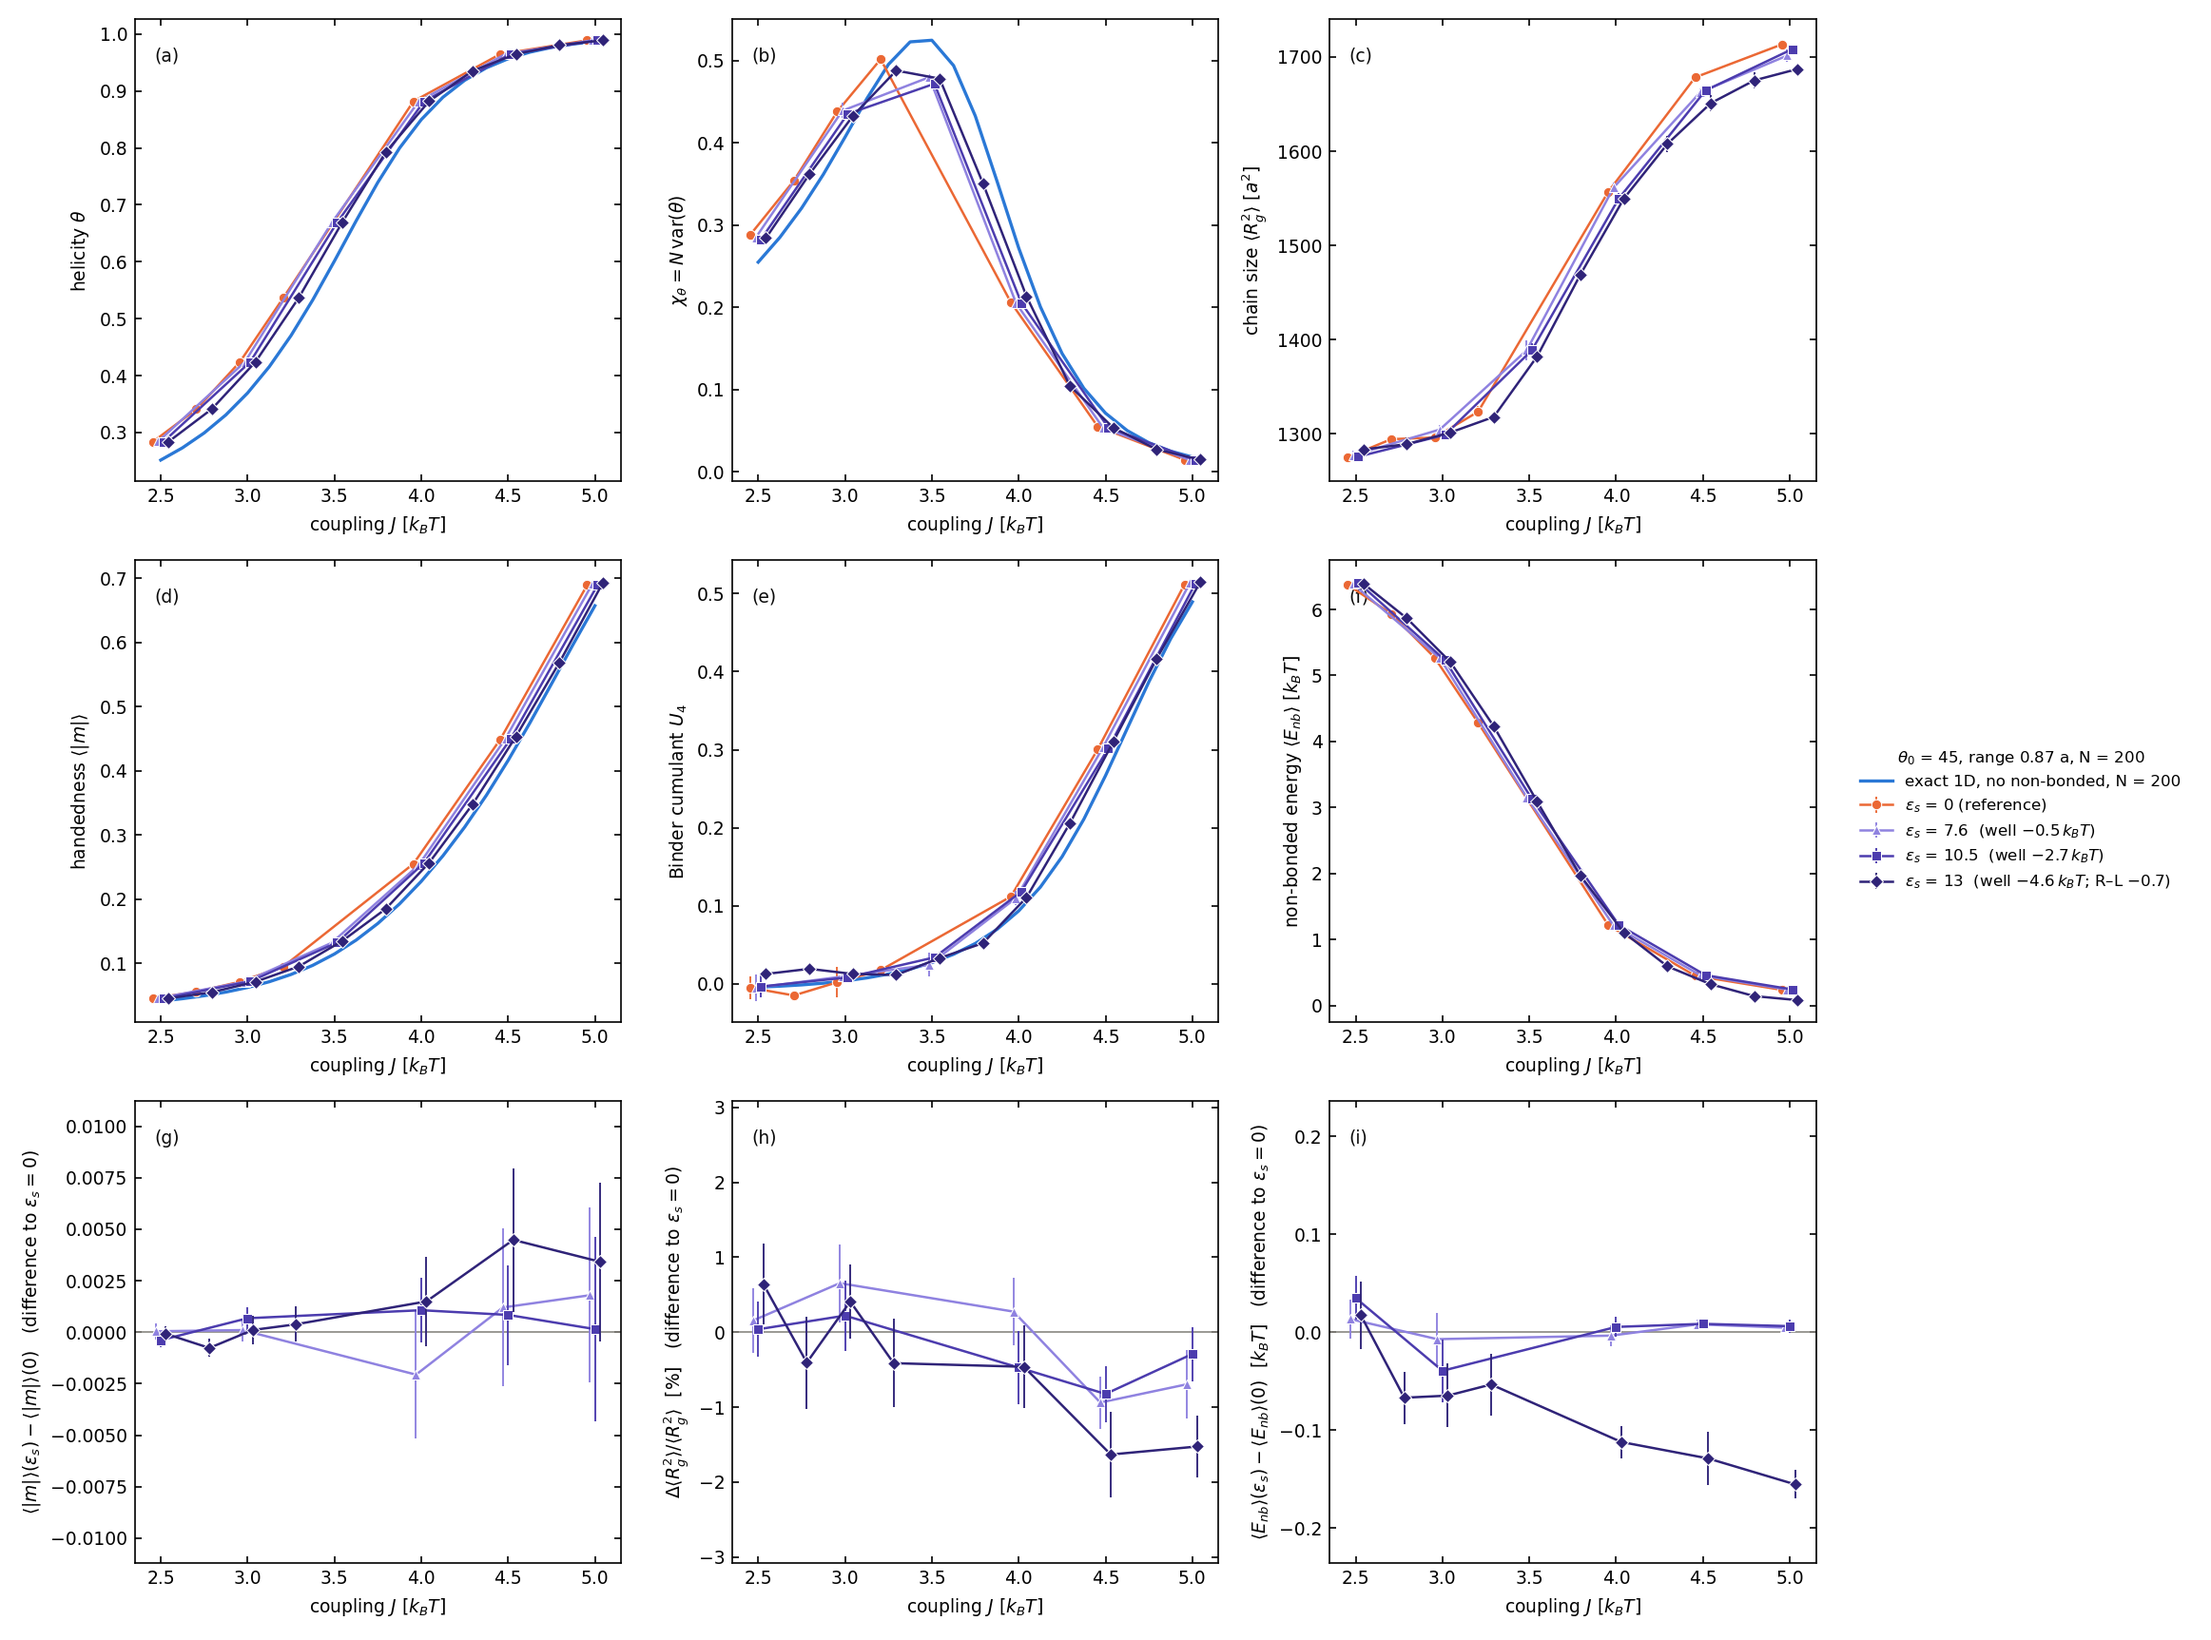
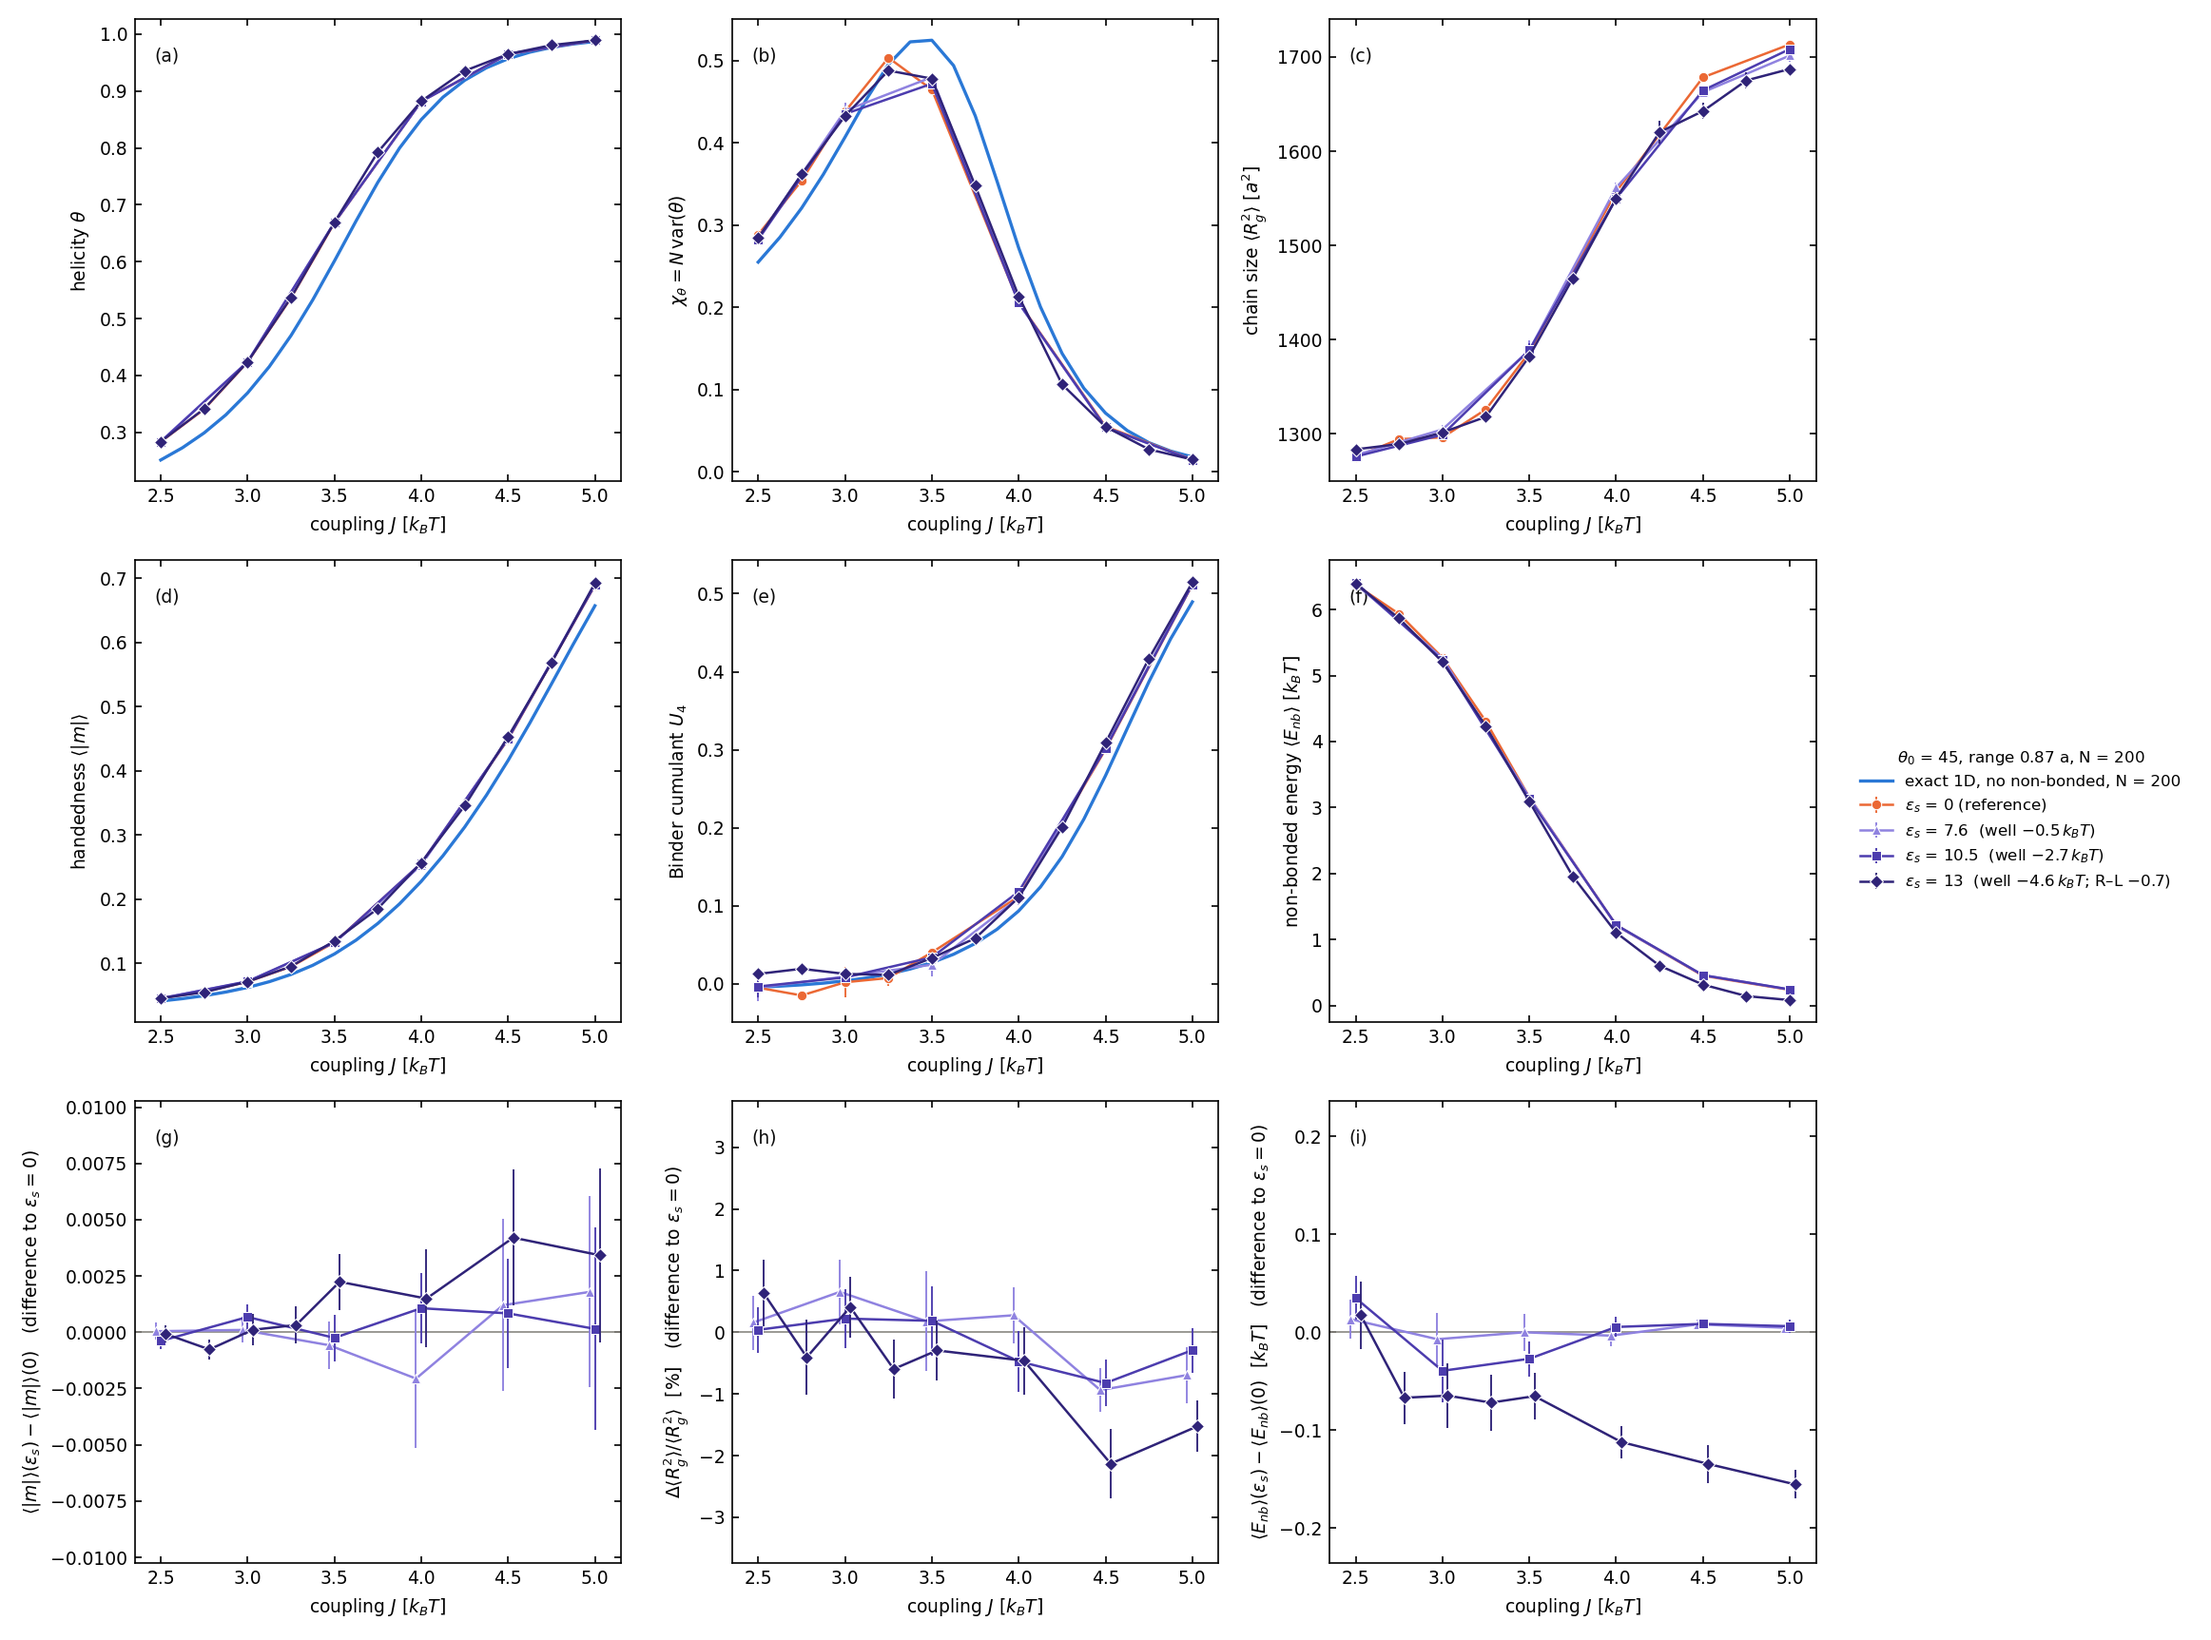
zoom figure: marks at their true J (the sideways shift made eps_s = 13 look closer to the exact curve than it is)

diff --git a/runs/t45/jscan_attr/zoom.py b/runs/t45/jscan_attr/zoom.py
@@ -53,7 +53,9 @@ for i, (k, yl) in enumerate(PAN):
     x = ax[i // 3, i % 3]
     if k in EX: x.plot(Jg[sel], EX[k][sel], color=EXACT, lw=1.6, label="exact 1D, no non-bonded, N = 200")
     for n, e in enumerate(EPS):
-        pts = [(J + (n - 1.5) * 0.03,) + cell((J, e), k)[:2] for J in Js if (J, e) in runs]
+        # every mark at its TRUE J: a sideways shift on these steep curves makes a series look closer to / further from the
+        # exact curve than it is (the series coincide; the difference panels below are the place to tell them apart)
+        pts = [(J,) + cell((J, e), k)[:2] for J in Js if (J, e) in runs]
         if not pts: continue
         X, V, Er = map(np.array, zip(*pts)); x.errorbar(X, V, yerr=Er, fmt=MRK[e] + "-", ms=5, lw=1.2, color=COL[e], mfc=COL[e], mec=SURF, mew=0.5, elinewidth=0.9, label=LAB[e], zorder=3 + n)
     x.set_xlim(JLO - 0.15, JHI + 0.15); x.set_xlabel(r"coupling $J$ [$k_BT$]"); x.set_ylabel(yl)
